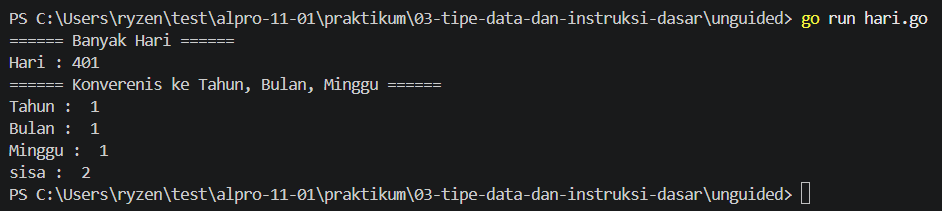
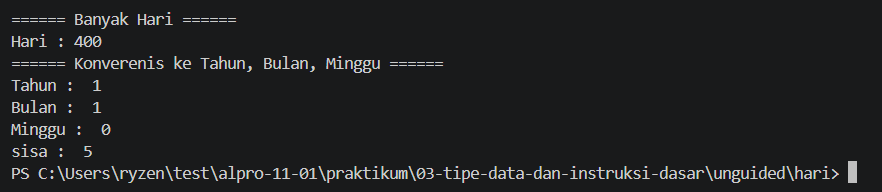
initial commint

Changed region(s): [[0.0, 0.0312, 1.0, 0.8438], [0.0, 0.8438, 0.9796, 0.9688]]

diff --git a/praktikum/03-tipe-data-dan-instruksi-dasar/unguided/hari/hari.go b/praktikum/03-tipe-data-dan-instruksi-dasar/unguided/hari/hari.go
@@ -11,8 +11,8 @@ func main() {
 	sisa = hari % 365
 	bulan = sisa / 30
 	sisa = sisa % 30
-	minggu = sisa / 4
-	sisa = sisa % 4
+	minggu = sisa / 7
+	sisa = sisa % 7
 	fmt.Println("====== Konverenis ke Tahun, Bulan, Minggu ======")
 	fmt.Println("Tahun : ", tahun)
 	fmt.Println("Bulan : ", bulan)

diff --git a/praktikum/03-tipe-data-dan-instruksi-dasar/laprak_Modul03.md b/praktikum/03-tipe-data-dan-instruksi-dasar/laprak_Modul03.md
@@ -1,9 +1,9 @@
 # <h1 align="center">Laporan Praktikum Modul [Nomor Modul] - [Judul Modul/Topik]</h1>
-<p align="center">[Nama Praktikan] - [NIM]</p>
+<p align="center">Reihan - 109092600002</p>
 
 ## Dasar Teori
 
-### A. [Judul Topik Dasar Teori 1, misal: Bahasa Pemrograman Go]
+### A. Tipe Data Dan Instruksi
 [Tuliskan penjelasan teori terkait topik ini. Sertakan kutipan/rujukan jika perlu, contoh: Menurut [Nama Penulis] ([Tahun]), ...]
 
 ### B. [Judul Topik Dasar Teori 2, misal: Package dan Struktur Program di Go]
@@ -18,23 +18,68 @@
 
 ## Guided
 
-### 1. [Nama File, misal: hello.go]
+### 1. kasir.go
 
 ```go
 package main
+
 import "fmt"
 
-func main(){
-    fmt.Println("Hello World!")
+func main() {
+	var uang int
+	fmt.Print("Uang = ")
+	fmt.Scan(&uang)
+
+	sepuluh := uang / 10000
+	sisa := uang % 10000
+	lima := sisa / 5000
+	sisa = sisa % 5000
+	satu := sisa / 1000
+	sisa = sisa % 1000
+	fmt.Println("10000 = ", sepuluh)
+	fmt.Println("5000 = ", lima)
+	fmt.Println("1000 = ", satu)
+	fmt.Print("sisa = ", sisa)
 }
 ```
 #### Deskripsi
 [Tuliskan ringkasan proses praktikum: apa yang dikerjakan, bagian guided dan unguided yang diimplementasikan, serta hasil yang diperoleh.]
 
-### 2. [Nama File, misal: main.go]
+### 2. konversi.go
 
 ```go
-[Tempelkan kode program di sini]
+package main
+
+import "fmt"
+
+func main() {
+	var cel float64
+	fmt.Print("Masukan Suhu: ")
+	fmt.Scan(&cel)
+
+	fmt.Print(cel + 273)
+}
+
+```
+#### Deskripsi
+[Tuliskan ringkasan proses praktikum: apa yang dikerjakan, bagian guided dan unguided yang diimplementasikan, serta hasil yang diperoleh.]
+
+### 3. tukar.go
+
+```go
+package main
+
+import "fmt"
+
+func main() {
+	var x, y, z int
+	fmt.Scan(&x, &y, &z)
+	temp := x
+	x = z
+	z = y
+	y = temp
+	fmt.Println(x, y, z)
+}
 ```
 #### Deskripsi
 [Tuliskan ringkasan proses praktikum: apa yang dikerjakan, bagian guided dan unguided yang diimplementasikan, serta hasil yang diperoleh.]
@@ -43,28 +88,61 @@ func main(){
 
 ## Unguided
 
-### 1. [nama_soal, misal: cacahuang]
+### 1. Mengonversi suhu dari derajat Celsius menjadi derajat Reamur
 
 ```go
-[Tempelkan kode program di sini, contoh: cacahuang.go]
+package main
+
+import "fmt"
+
+func main() {
+	var celcius float64
+	fmt.Println("======= Suhu Celcius ======")
+	fmt.Print("Celcius : ")
+	fmt.Scan(&celcius)
+	reamur := 4.0 / 5.0 * celcius
+	fmt.Println("======= Suhu Reamur ======")
+	fmt.Print("Reamur : ", reamur)
+}
 ```
 
 ##### Output
 <!-- Path relatif dari readme.md ke folder unguided/[nama_soal]/output.png, contoh: -->
-![Screenshot Output Unguided](https://github.com/renwxyz/alpro-11-01/blob/main/praktikum/02-bahasa-pemrograman-go/unguided/cacahuang/output.png)
+![Screenshot Output Unguided](https://github.com/Hanz145/alpro-11-01/blob/main/praktikum/03-tipe-data-dan-instruksi-dasar/unguided/suhu/output.png?raw=true)
 
 
 #### Deskripsi
 [Tuliskan ringkasan proses praktikum: apa yang dikerjakan, bagian guided dan unguided yang diimplementasikan, serta hasil yang diperoleh.]
 
-### 2. [nama_soal, misal: kalkulator]
+### 2. Membuat sebuah program dalam bahasa Go yang dapat mengonversi jumlah hari ke dalam satuan tahun, bulan, minggu, dan hari,
 
 ```go
-[Tempelkan kode program di sini, contoh: kalkulator.go]
+package main
+
+import "fmt"
+
+func main() {
+	var tahun, bulan, minggu, hari, sisa int32
+	fmt.Println("====== Banyak Hari ======")
+	fmt.Print("Hari : ")
+	fmt.Scan(&hari)
+	tahun = hari / 365
+	sisa = hari % 365
+	bulan = sisa / 30
+	sisa = sisa % 30
+	minggu = sisa / 4
+	sisa = sisa % 4
+	fmt.Println("====== Konverenis ke Tahun, Bulan, Minggu ======")
+	fmt.Println("Tahun : ", tahun)
+	fmt.Println("Bulan : ", bulan)
+	fmt.Println("Minggu : ", minggu)
+	fmt.Println("sisa : ", sisa)
+}
+
 ```
 
 ##### Output
-![Screenshot Output Unguided](unguided/[nama_soal]/output.png)
+![Screenshot Output Unguided](https://github.com/Hanz145/alpro-11-01/blob/main/praktikum/03-tipe-data-dan-instruksi-dasar/unguided/hari/output.png?raw=true)
 
 #### Deskripsi
 [Tuliskan ringkasan proses praktikum: apa yang dikerjakan, bagian guided dan unguided yang diimplementasikan, serta hasil yang diperoleh.]
